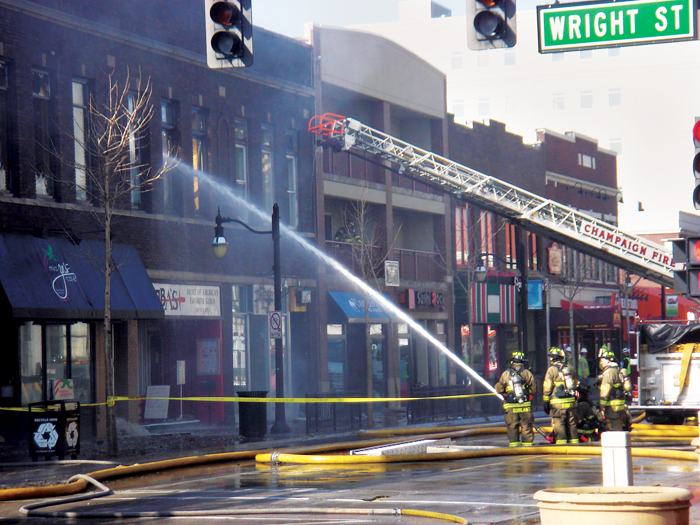
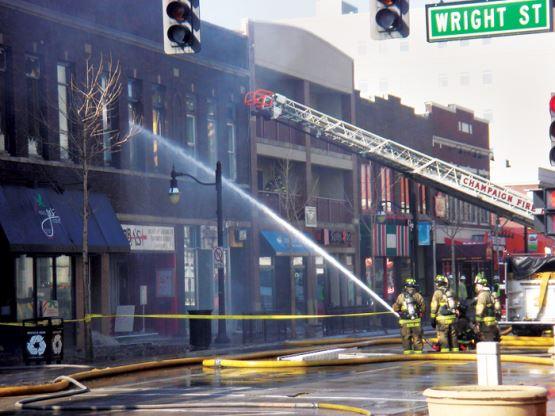
Resized images

diff --git a/about.html b/about.html
@@ -55,7 +55,7 @@
                   fresh-baked donuts: It's the closest thing to "Breakfast Heaven" anywhere in the C-U area!</p>
           </div>
           <div class="col-md-6">
-            <img class="img-responsive"alt="shop fire" src="pictures/bakeryFire.jpg" width="600" height="500">
+            <img class="img-responsive"alt="shop fire" src="pictures/bakeryFire.jpg" width="555" height="416">
           </div>
         </div>
       </div>

diff --git a/index.html b/index.html
@@ -43,7 +43,7 @@
           <div class="row">
           <div class="col-md-12">
 
-            <img class="img-responsive"alt="Donut Delights" src="pictures/donutDelightsStoreFront1.1.jpg" width="1170" height="666">
+            <img class="img-responsive"alt="Donut Delights" src="pictures/donutDelightsStoreFront1.1.jpg" width="1140" height="759">
 
           </div>
         </div>
